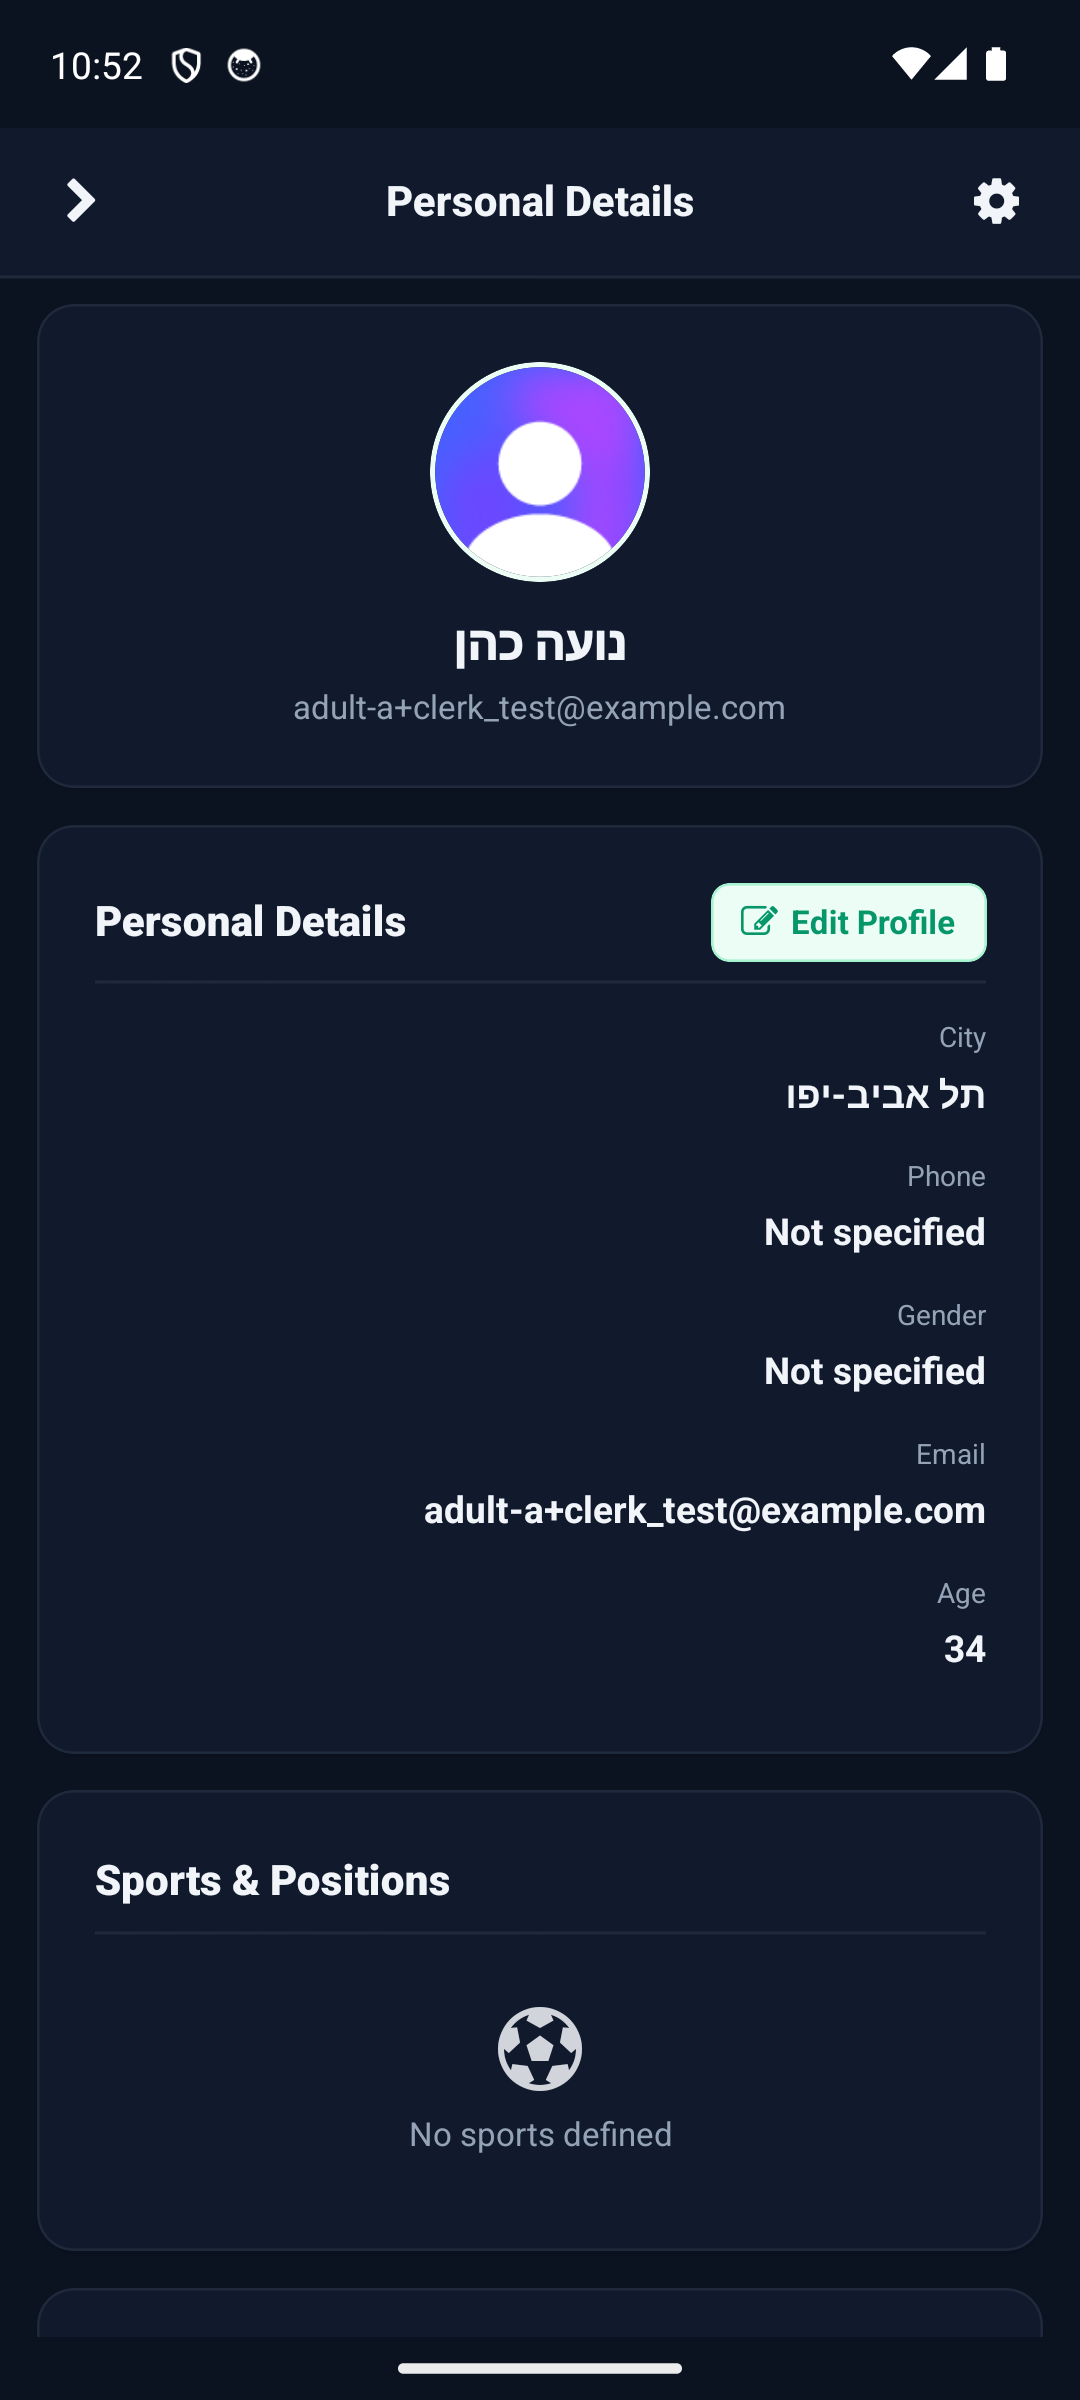
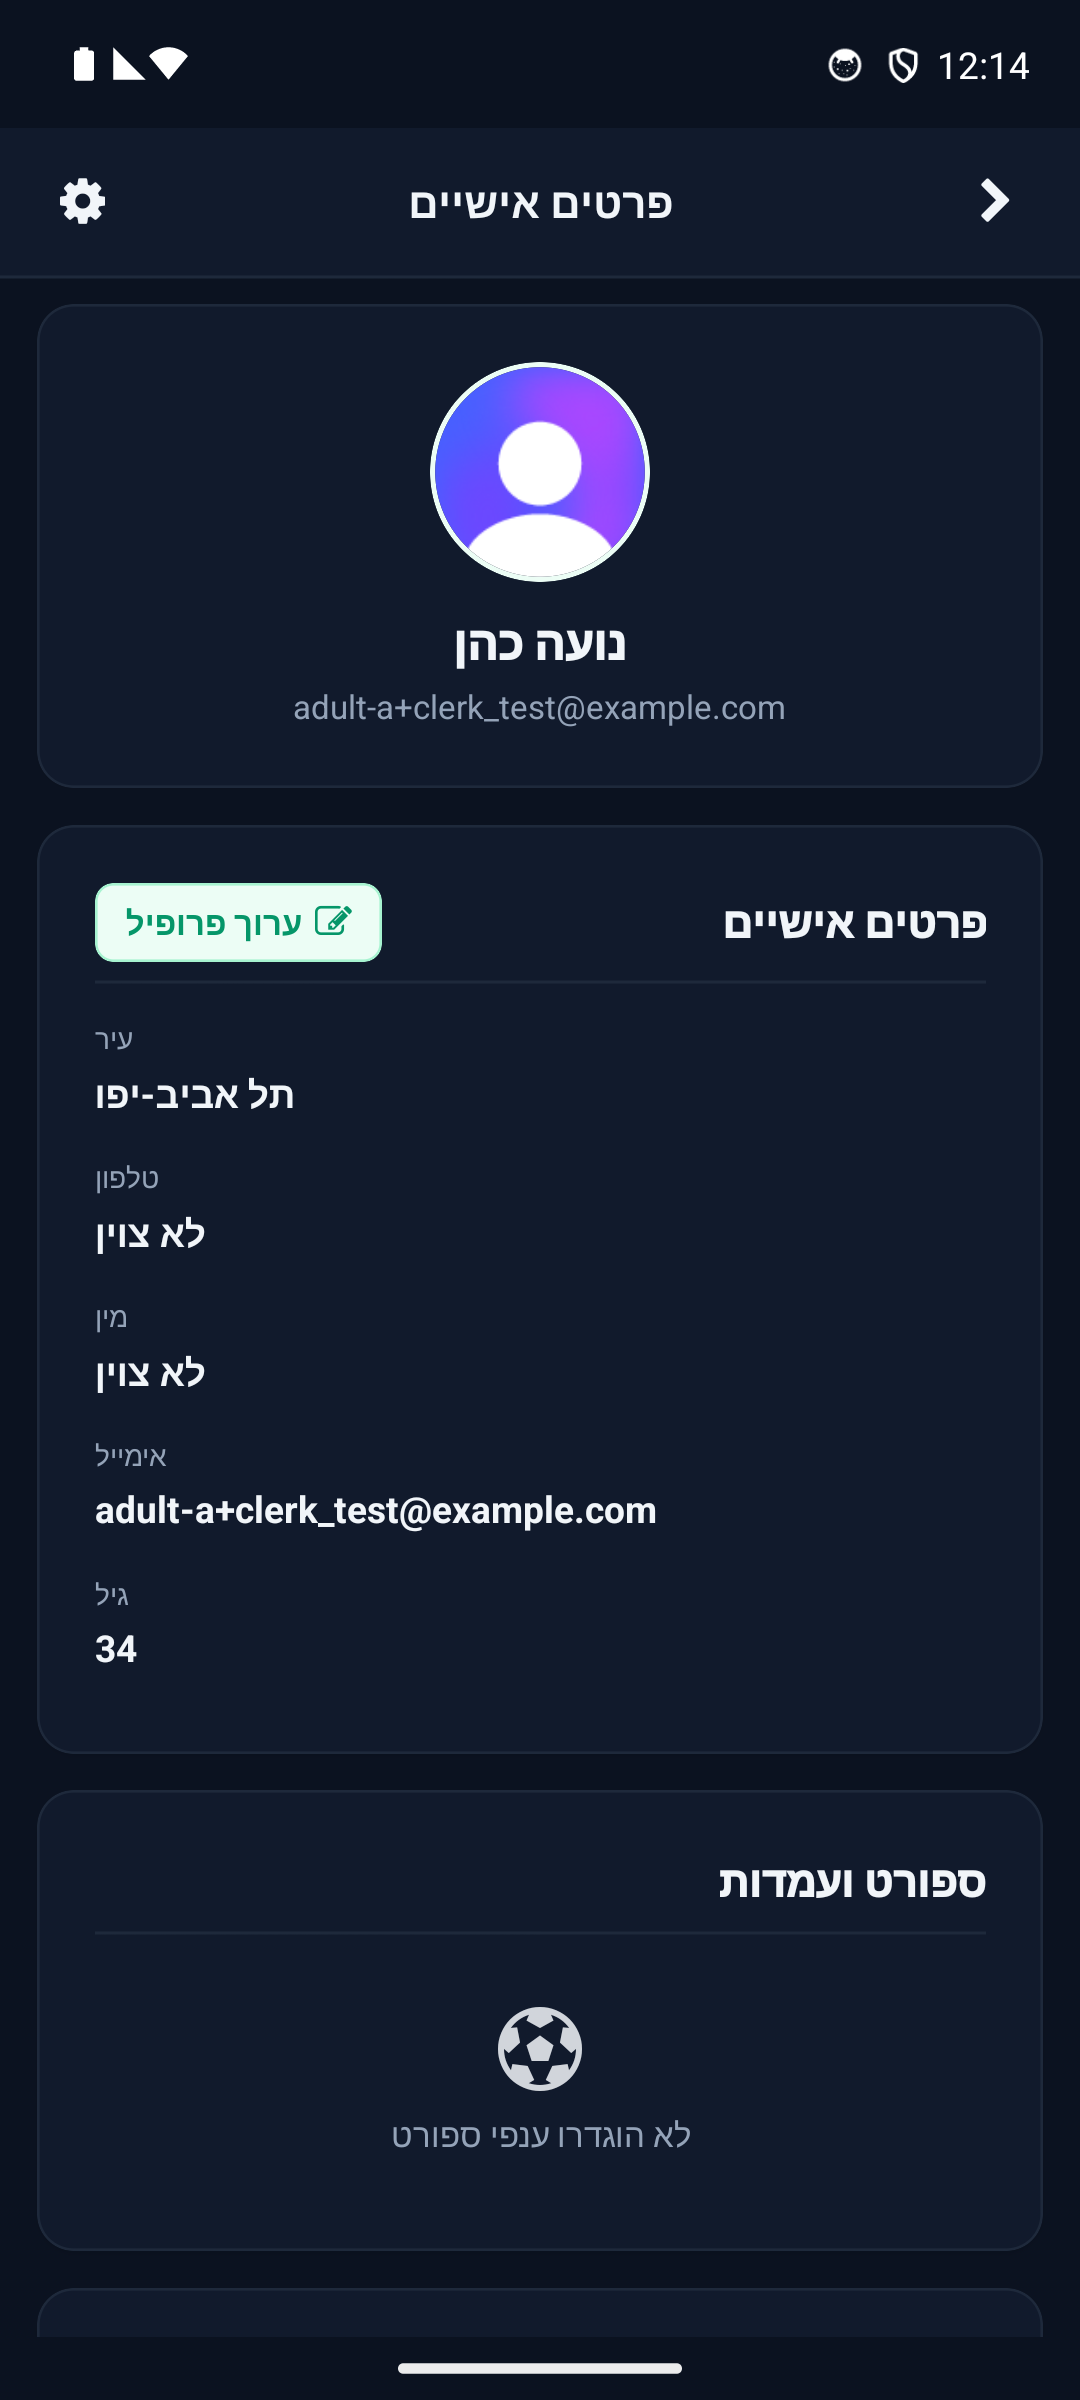
fix(mobile): detect Hebrew on Android (legacy 'iw' code) so the app language follows the device
getLocales() reports languageCode 'iw' (tag he-IL) on Hebrew Android, which failed the
=== 'he' check and fell back to English while native RTL stayed on. Extract
resolveDeviceLanguage (iw/he code or tag, case/sep-insensitive) with unit tests; fix an
existing ScoreEntrySheet effect-cleanup type error; accept Hebrew in screenshot flow
assertions; recapture mobile design screens in Hebrew.

diff --git a/mobile_app/src/i18n/index.ts b/mobile_app/src/i18n/index.ts
@@ -5,6 +5,8 @@ import * as SecureStore from 'expo-secure-store';
 import { I18nManager, Platform, Alert } from 'react-native';
 import * as Updates from 'expo-updates';
 
+import { resolveDeviceLanguage } from './deviceLanguage';
+
 import en from './locales/en.json';
 import he from './locales/he.json';
 
@@ -90,8 +92,7 @@ export const initI18n = async () => {
   let savedLanguage = await safeGetLang();
 
   if (!savedLanguage) {
-    const deviceLanguage = getLocales()[0]?.languageCode;
-    savedLanguage = deviceLanguage === 'he' ? 'he' : 'en';
+    savedLanguage = resolveDeviceLanguage(getLocales()[0]);
   }
 
   // The native layout direction only applies after a restart. If it does not match the

diff --git a/mobile_app/src/i18n/deviceLanguage.ts b/mobile_app/src/i18n/deviceLanguage.ts
@@ -1,0 +1,17 @@
+export type AppLanguage = 'en' | 'he';
+
+type DeviceLocale = { languageCode?: string | null; languageTag?: string | null } | undefined;
+
+/**
+ * Maps the first device locale to a supported app language. Android reports Hebrew with the
+ * legacy ISO code `iw` (languageCode "iw", tag "he-IL"), so check the code and the tag's
+ * primary subtag, both normalized.
+ */
+export function resolveDeviceLanguage(locale: DeviceLocale): AppLanguage {
+  const candidates = [locale?.languageCode, locale?.languageTag?.split(/[-_]/)[0]];
+  for (const c of candidates) {
+    const code = c?.toLowerCase();
+    if (code === 'he' || code === 'iw') return 'he';
+  }
+  return 'en';
+}

diff --git a/mobile_app/src/components/tournaments/ScoreEntrySheet.tsx b/mobile_app/src/components/tournaments/ScoreEntrySheet.tsx
@@ -106,7 +106,9 @@ export default function ScoreEntrySheet({ open, tournament, match, onClose, onSa
         // eslint-disable-next-line react-hooks/exhaustive-deps
     }, [open, match?.id]);
 
-    useEffect(() => () => closeTimer.current && clearTimeout(closeTimer.current), []);
+    useEffect(() => () => {
+        if (closeTimer.current) clearTimeout(closeTimer.current);
+    }, []);
 
     const homeTeam = match?.home.team ?? null;
     const awayTeam = match?.away.team ?? null;

diff --git a/docs/design-screens/INDEX.md b/docs/design-screens/INDEX.md
@@ -103,15 +103,15 @@ Earlier hand-captured frames live in `docs/plans/d1-feature1-screens/`.
 | tournament-score-sheet-desktop | web | /tournaments/cmvjad6r3000gqe0iifmjp349 | next_app/src/components/tournaments/ScoreEntrySheet.tsx | dark | 0ed3a729 2026-10-22 |
 | tournament-score-sheet-mobile | web | /tournaments/cmvjad6r3000gqe0iifmjp349 | next_app/src/components/tournaments/ScoreEntrySheet.tsx | light | 0ed3a729 2026-10-22 |
 | tournament-score-sheet-mobile | web | /tournaments/cmvjad6r3000gqe0iifmjp349 | next_app/src/components/tournaments/ScoreEntrySheet.tsx | dark | 0ed3a729 2026-10-22 |
-| profile | mobile | /user/profile | mobile_app/app/user/profile.tsx | light | 263553f8 2026-10-23 |
-| profile | mobile | /user/profile | mobile_app/app/user/profile.tsx | dark | 263553f8 2026-10-23 |
+| profile | mobile | /user/profile | mobile_app/app/user/profile.tsx | light | 93d6887a 2026-10-23 |
+| profile | mobile | /user/profile | mobile_app/app/user/profile.tsx | dark | 93d6887a 2026-10-23 |
 | profile-settings | mobile | /profile/settings | mobile_app/app/profile/settings.tsx | light | failed (deep link did not open settings) |
 | profile-settings | mobile | /profile/settings | mobile_app/app/profile/settings.tsx | dark | failed (deep link did not open settings) |
-| game | mobile | /(tabs)/game/[id] | mobile_app/app/(tabs)/game/[id].tsx | light | 263553f8 2026-10-23 |
-| game | mobile | /(tabs)/game/[id] | mobile_app/app/(tabs)/game/[id].tsx | dark | 263553f8 2026-10-23 |
-| tournaments-list | mobile | /tournaments | mobile_app/app/tournaments/index.tsx | light | 263553f8 2026-10-23 |
-| tournaments-list | mobile | /tournaments | mobile_app/app/tournaments/index.tsx | dark | 263553f8 2026-10-23 |
+| game | mobile | /(tabs)/game/[id] | mobile_app/app/(tabs)/game/[id].tsx | light | 93d6887a 2026-10-23 |
+| game | mobile | /(tabs)/game/[id] | mobile_app/app/(tabs)/game/[id].tsx | dark | 93d6887a 2026-10-23 |
+| tournaments-list | mobile | /tournaments | mobile_app/app/tournaments/index.tsx | light | 93d6887a 2026-10-23 |
+| tournaments-list | mobile | /tournaments | mobile_app/app/tournaments/index.tsx | dark | 93d6887a 2026-10-23 |
 | tournaments-new | mobile | /tournaments/new | mobile_app/app/tournaments/new.tsx | light | failed (deep link did not open the form) |
 | tournaments-new | mobile | /tournaments/new | mobile_app/app/tournaments/new.tsx | dark | failed (deep link did not open the form) |
-| tournament | mobile | /tournaments/[id] | mobile_app/app/tournaments/[id]/index.tsx | light | 263553f8 2026-10-23 |
-| tournament | mobile | /tournaments/[id] | mobile_app/app/tournaments/[id]/index.tsx | dark | 263553f8 2026-10-23 |
+| tournament | mobile | /tournaments/[id] | mobile_app/app/tournaments/[id]/index.tsx | light | 93d6887a 2026-10-23 |
+| tournament | mobile | /tournaments/[id] | mobile_app/app/tournaments/[id]/index.tsx | dark | 93d6887a 2026-10-23 |
